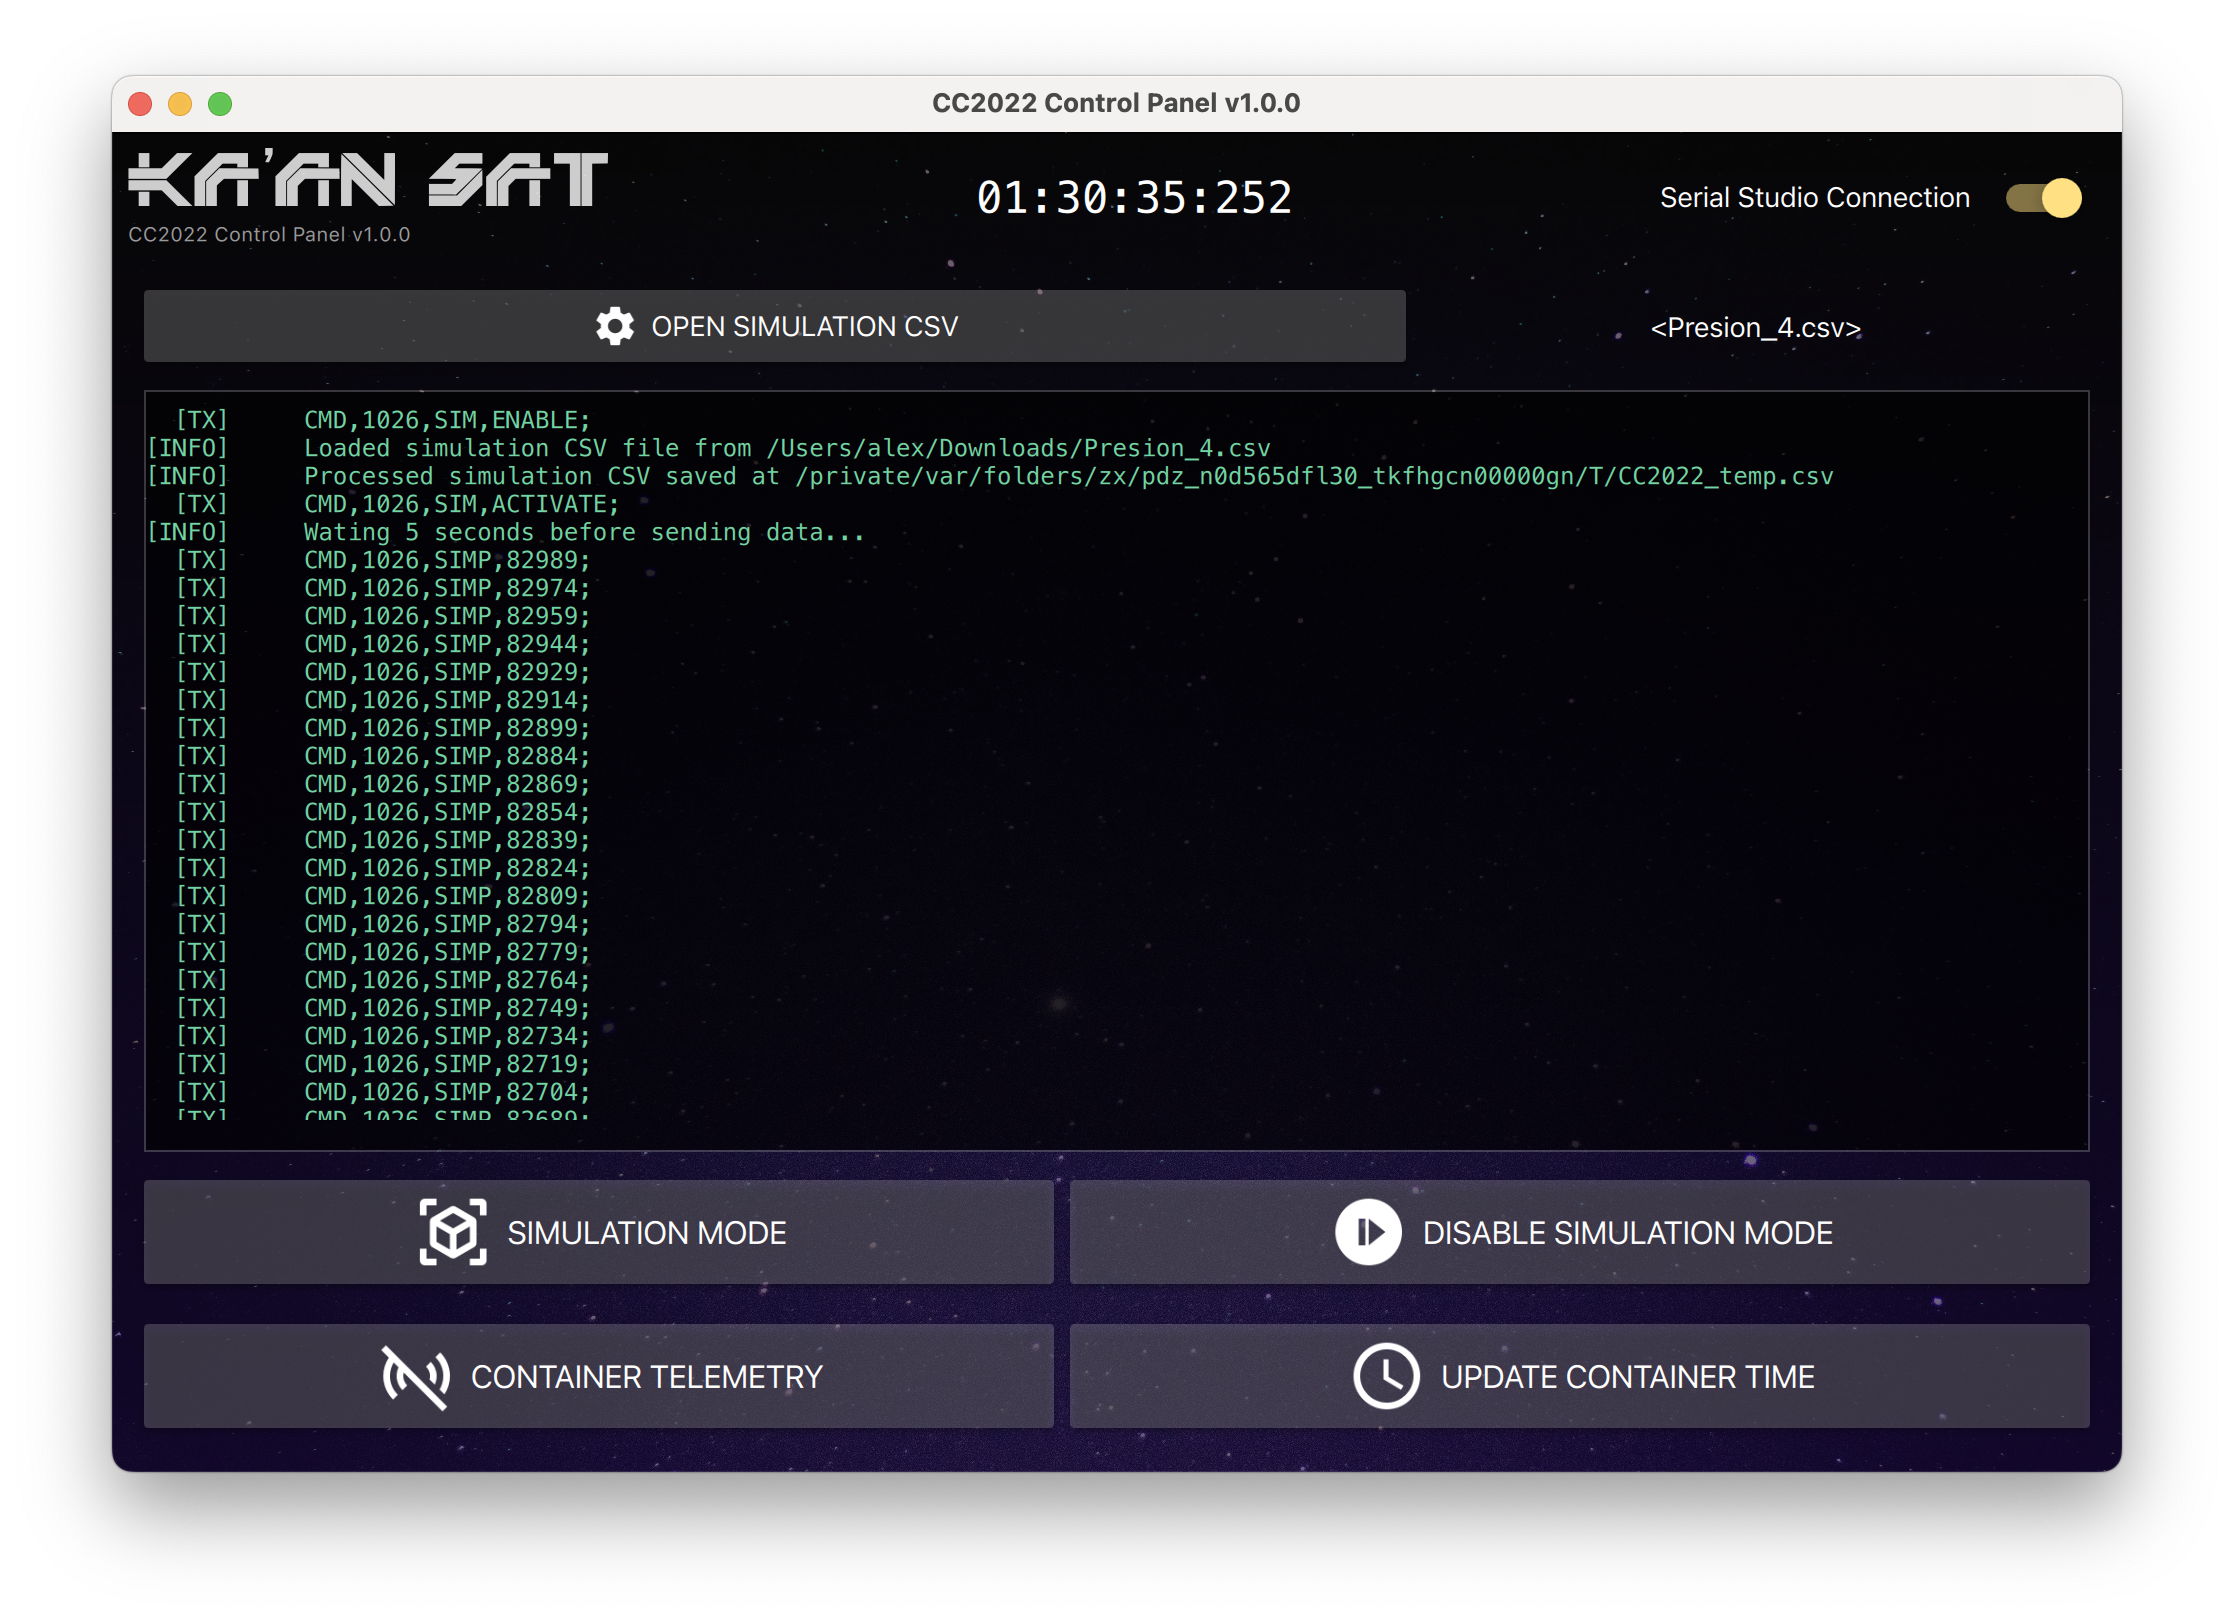
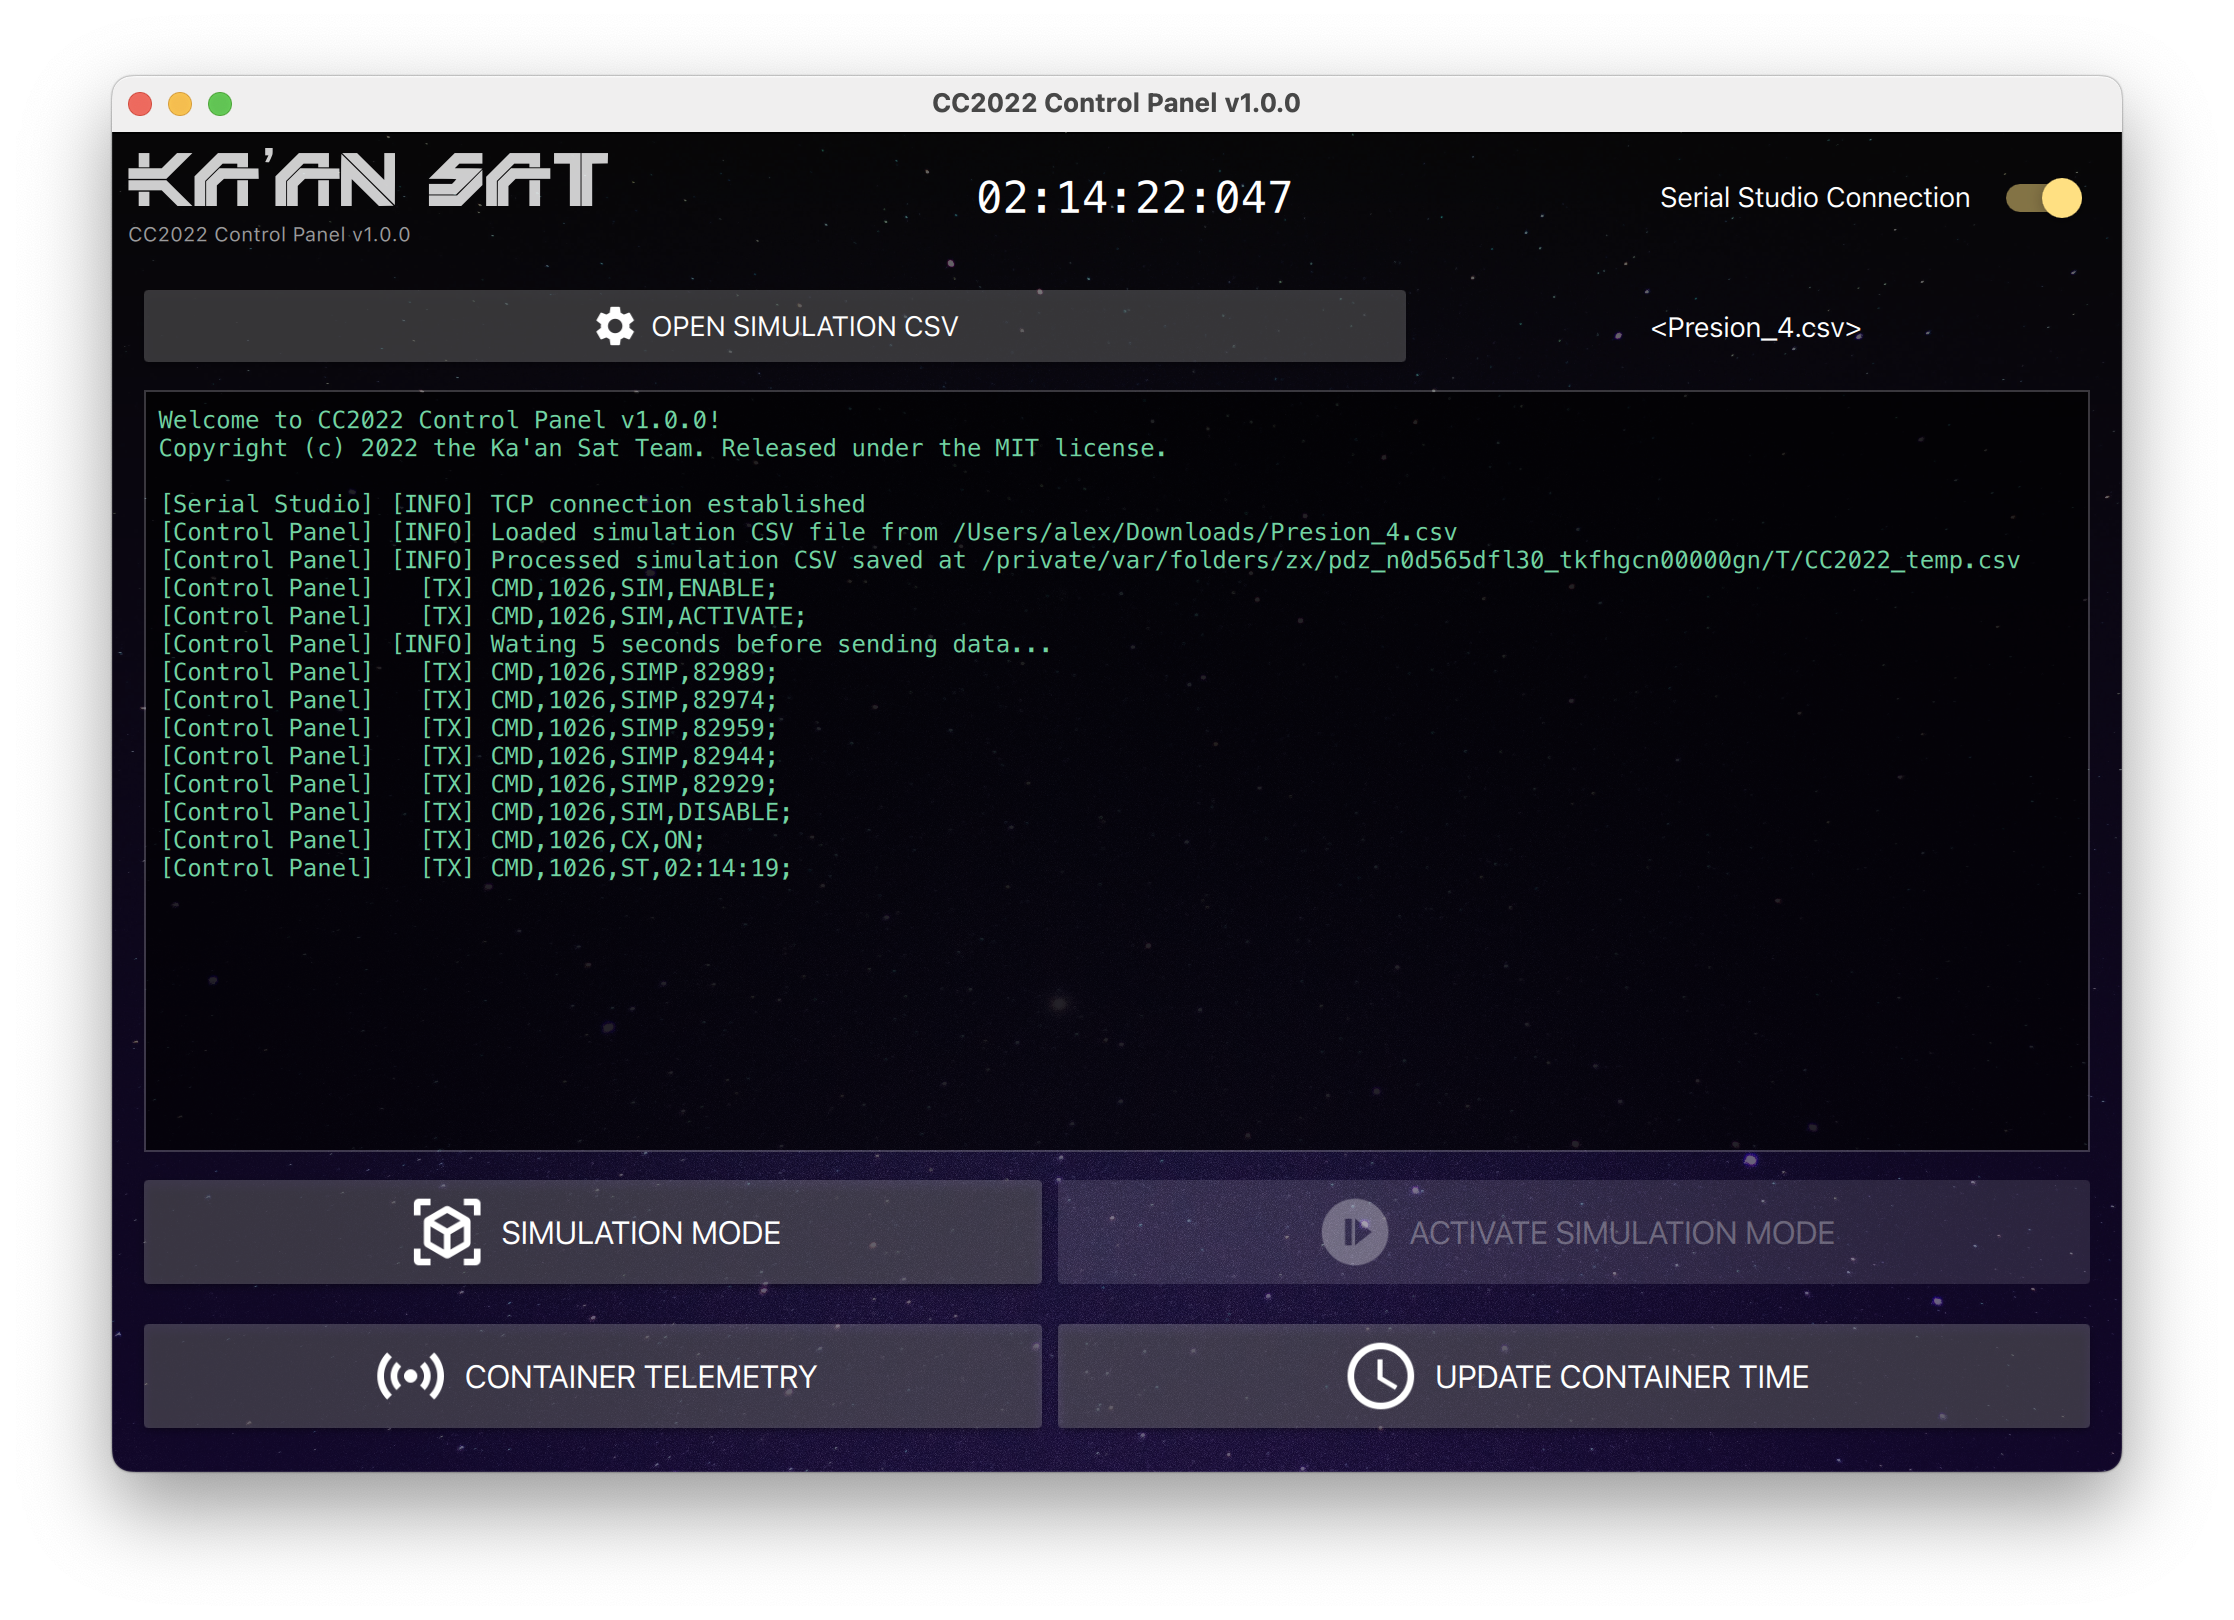
Add more UI logging capabilities

diff --git a/assets/qml/UI.qml b/assets/qml/UI.qml
@@ -172,12 +172,20 @@ Page {
                 textFormat: Text.PlainText
                 width: scrollView.contentWidth
                 wrapMode: Text.WrapAtWordBoundaryOrAnywhere
-                placeholderText: qsTr("No data received so far") + "..."
+                text: qsTr(" Welcome to %1 v%2!\n").arg(Cpp_AppName).arg(Cpp_AppVersion) +
+                      qsTr(" Copyright (c) 2022 the Ka'an Sat Team. Released under the MIT license.\n\n")
 
                 Connections {
                     target: Cpp_CanSat_ControlPanel
                     function onPrintLn(line) {
-                        textArea.text += line + "\n"
+                        textArea.text += " [Control Panel] " + line + "\n"
+                    }
+                }
+
+                Connections {
+                    target: Cpp_SerialStudio_Plugin
+                    function onPrintLn(line) {
+                        textArea.text += " [Serial Studio] " + line + "\n"
                     }
                 }
 

diff --git a/src/CanSat/ControlPanel.cpp b/src/CanSat/ControlPanel.cpp
@@ -186,8 +186,8 @@ void CanSat::ControlPanel::openCsv()
         }
 
         // Update UI
-        Q_EMIT printLn("[INFO]\tLoaded simulation CSV file from " + m_file.fileName());
-        Q_EMIT printLn("[INFO]\tProcessed simulation CSV saved at "
+        Q_EMIT printLn("[INFO] Loaded simulation CSV file from " + m_file.fileName());
+        Q_EMIT printLn("[INFO] Processed simulation CSV saved at "
                        + m_tempFile.fileName());
     }
 
@@ -243,7 +243,7 @@ void CanSat::ControlPanel::setSimulationActivated(const bool activated)
             m_simulationActivated = true;
             emit simulationActivatedChanged();
             sendData("CMD,1026,SIM,ACTIVATE;");
-            Q_EMIT printLn("[INFO]\tWating 5 seconds before sending data...");
+            Q_EMIT printLn("[INFO] Wating 5 seconds before sending data...");
             QTimer::singleShot(5000, this, SLOT(sendSimulatedData()));
         }
 
@@ -417,7 +417,7 @@ void CanSat::ControlPanel::processFrame(const QByteArray &frame)
     }
 
     // Update user interface
-    Q_EMIT printLn("  [RX]\t" + QString::fromUtf8(frame));
+    Q_EMIT printLn("  [RX] " + QString::fromUtf8(frame));
 }
 
 /**
@@ -490,7 +490,7 @@ bool CanSat::ControlPanel::sendData(const QString &data)
     apiFrame.append((quint8)crc);
 
     // Send data to Serial Studio
-    Q_EMIT printLn("  [TX]\t" + data);
+    Q_EMIT printLn("  [TX] " + data);
     return SerialStudio::Plugin::instance().write(apiFrame);
 }
 
@@ -518,7 +518,7 @@ bool CanSat::ControlPanel::createCsv(const bool createContainerCsv)
         dir.mkpath(".");
 
     // Update UI
-    Q_EMIT printLn("[INFO]\tCreating new CSV file at " + dir.filePath(fileName));
+    Q_EMIT printLn("[INFO] Creating new CSV file at " + dir.filePath(fileName));
 
     // Create container CSV file
     if (createContainerCsv)

diff --git a/src/SerialStudio/Plugin.cpp b/src/SerialStudio/Plugin.cpp
@@ -94,7 +94,9 @@ void SerialStudio::Plugin::tryConnection()
  */
 void SerialStudio::Plugin::onDataReceived()
 {
-    auto json = QJsonDocument::fromJson(m_socket.readAll());
+    auto recv = m_socket.readAll();
+    auto json = QJsonDocument::fromJson(recv);
+
     if (!json.isEmpty())
     {
         auto base64 = json.object().value("data").toString();
@@ -112,6 +114,11 @@ void SerialStudio::Plugin::onDataReceived()
  */
 void SerialStudio::Plugin::onConnectedChanged()
 {
+    if (isConnected())
+        Q_EMIT printLn("[INFO] TCP connection established");
+    else
+        Q_EMIT printLn("[WARN] TCP connection closed");
+
     QTimer::singleShot(500, this, &Plugin::connectedChanged);
 }
 
@@ -121,5 +128,6 @@ void SerialStudio::Plugin::onConnectedChanged()
 void SerialStudio::Plugin::onErrorOccurred(const QAbstractSocket::SocketError socketError)
 {
     Q_UNUSED(socketError);
+    Q_EMIT printLn("[WARN] TCP socket error: " + m_socket.errorString());
     Misc::Utilities::showMessageBox(tr("TCP socket error"), m_socket.errorString());
 }

diff --git a/src/CanSat/ControlPanel.h b/src/CanSat/ControlPanel.h
@@ -57,8 +57,8 @@ class ControlPanel : public QObject
 Q_SIGNALS:
     void currentTimeChanged();
     void csvFileNameChanged();
-    void printLn(const QString &data);
     void simulationEnabledChanged();
+    void printLn(const QString &line);
     void simulationActivatedChanged();
     void containerTelemetryEnabledChanged();
 

diff --git a/src/SerialStudio/Plugin.h b/src/SerialStudio/Plugin.h
@@ -38,6 +38,7 @@ class Plugin : public QObject
 
 Q_SIGNALS:
     void connectedChanged();
+    void printLn(const QString &line);
     void dataReceived(const QByteArray &data);
 
 private:
